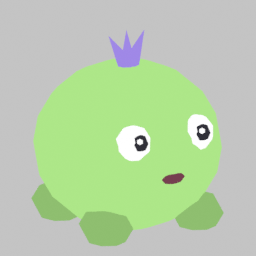
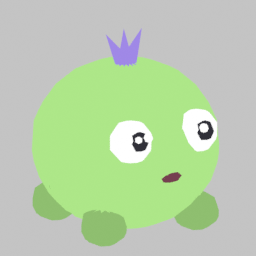
Mossbop look pass: rounder body, bigger eyes with highlights

diff --git a/docs/vault/06-art-pipelines/Blender-MCP.md b/docs/vault/06-art-pipelines/Blender-MCP.md
@@ -29,3 +29,4 @@ Add a dated line per creature here: tool used, prompt, triangle count, export se
 
 - 2026-10-05, blockout tier, all 16 World 1 species: `tools/blender/alien_base.py` run with the `bpy` 5.0.1 Python module (no Blender UI and no MCP connection needed; the same script runs under `blender -b -P ... -- --all`). No prompt: body, face, limbs, accessory and tier dressing come from the Species and Tiers tables. 774 to 1,256 triangles per alien, one mesh with 6 or 7 material slots. Export settings that worked: glTF `export_format='GLB'`, `export_apply=True`, `export_animations=False`, default Y-up; FBX defaults plus `apply_scale_options='FBX_SCALE_ALL'`, `mesh_smooth_type='FACE'`, `bake_anim=False`, `add_leaf_bones=False`. Both land in `assets/models/<SpeciesId>/`. Thumbnails: `tools/blender/preview.py`; Workbench needs libEGL, which the headless container lacks, so it fell back to Cycles CPU with emission-only materials (16 samples, about 0.1 s per 256 px image). Studio import (File -> Import 3D, scale 1, one MeshPart per material) is the expected result and still has to be confirmed in Studio.
 - 2026-10-05, Mac install: Blender 5.2.2 LTS via Homebrew cask, uv 0.12.23. `uvx mcp-for-blender install-addon` fails on a machine where Blender has never been opened ("Could not find a Blender user addons directory"); creating `~/Library/Application Support/Blender/5.2/scripts/addons` and re-running with `BLENDERMCP_ADDONS_DIR` set installs `blender_mcp.py` (the setup script now does this). `claude mcp list` shows blender connected through uvx. Still by hand once: enable the add-on in Preferences and press Start MCP Server in the N panel.
+- 2026-10-05, Mossbop look pass (v2), headless `blender -b --python` on the Mac (Blender 5.2.2; the blender MCP tools were not loaded in the running Claude Code session, which reads `.mcp.json` only at start). From the blockout GLB: Body + BodyDark separated, one Subdivision Surface level applied, Decimate back to 900 triangles, smooth shading on the body only, body rescaled to its original bounding box so the face and the tuft still sit on it; each eye (EyeWhite + Pupil) scaled 1.2x about its own centre and pushed 0.06 out from the body centre (without the push the smoothed body clipped the eye edges); a white `EyeHighlight` sphere (8 x 4 segments, 48 triangles) on each pupil; colours and the purple tuft unchanged. 946 -> 1,390 triangles (Body 514, BodyDark 386, EyeWhite 208, Pupil 96, EyeHighlight 96, Mouth 48, Accessory 42), height 2.639 units unchanged, pivot at the feet, eyes now reach 1.38 units forward. Exported with the settings above (GLB `export_apply`, no animations; FBX `FBX_SCALE_ALL`, `mesh_smooth_type='FACE'`, no leaf bones); thumbnails redone with `blender -b -P tools/blender/preview.py -- --species Mossbop` (the Mac's python3 has no `bpy`).
